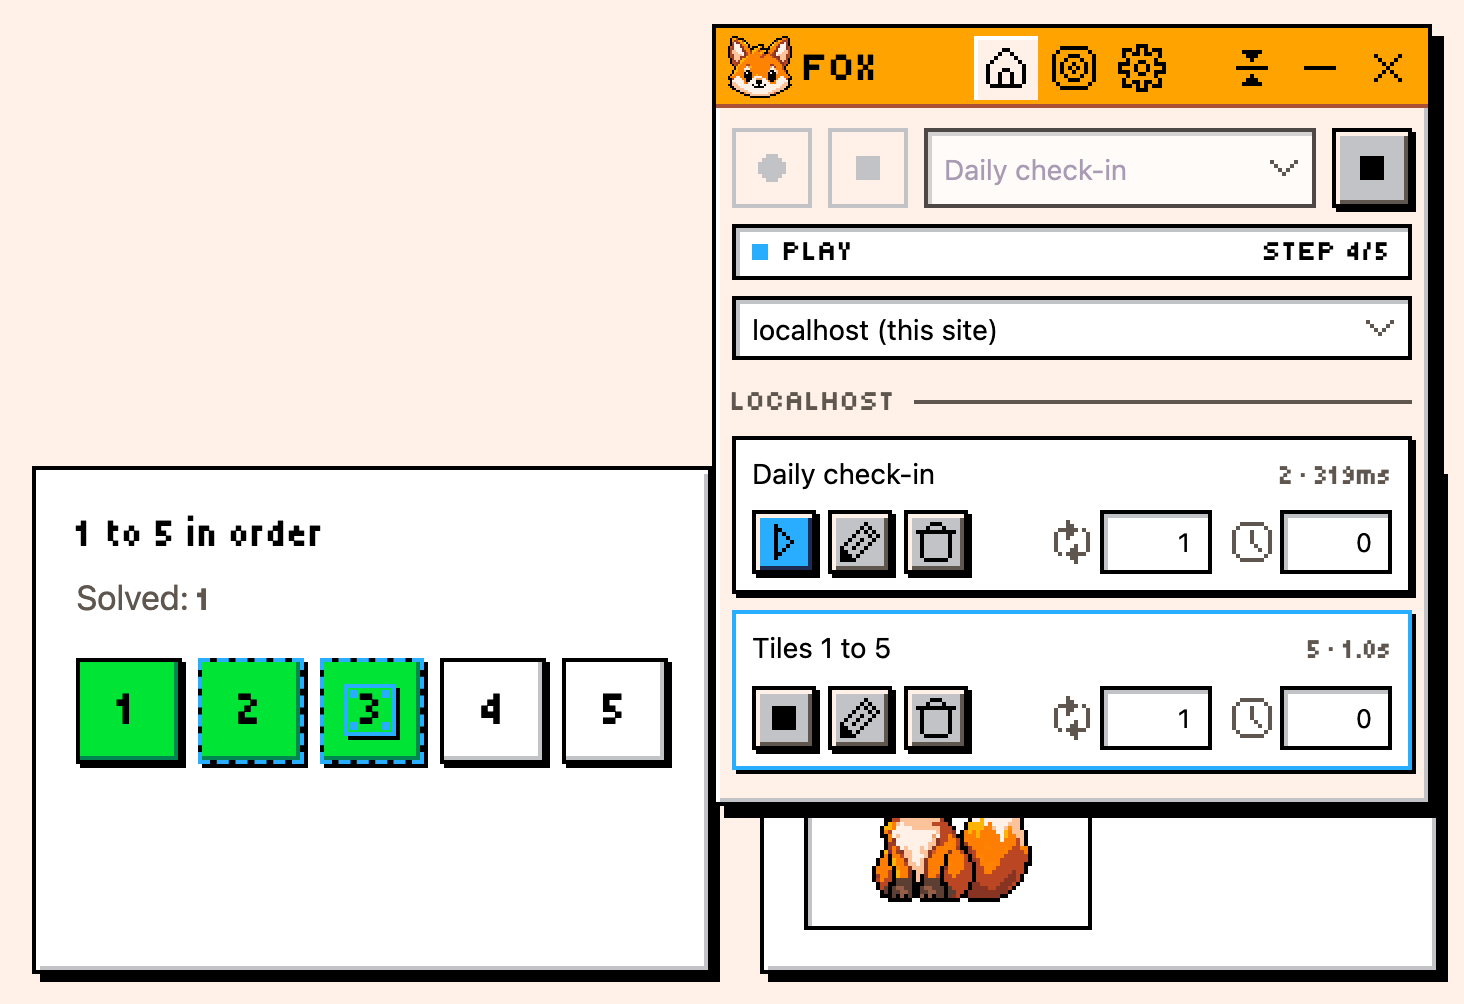
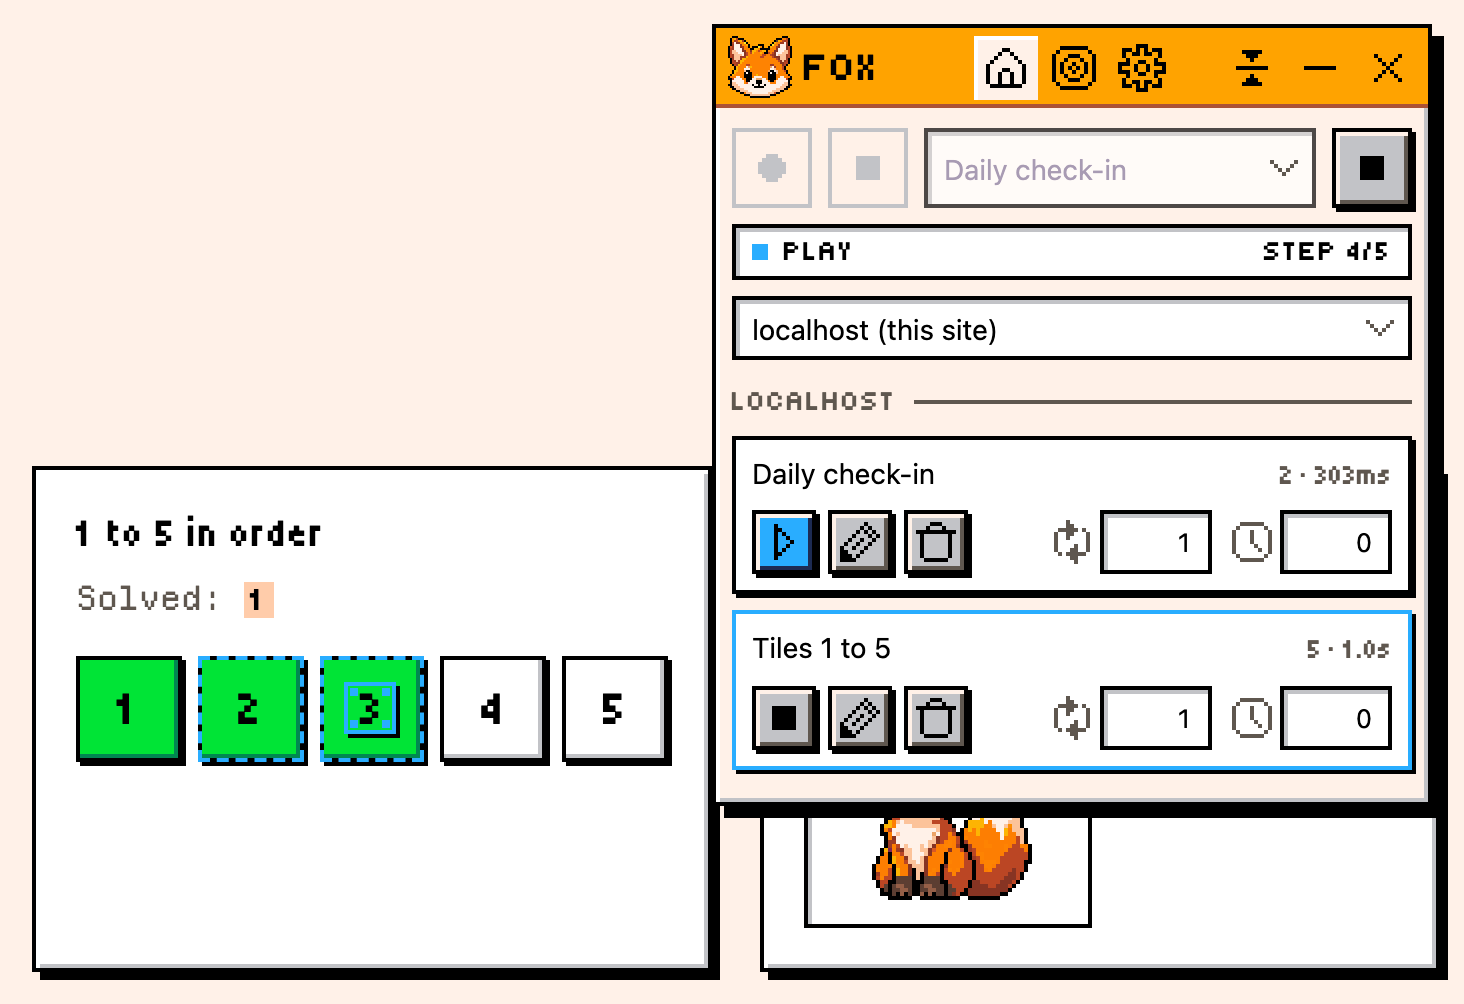
Website: Departure Mono body font (pixel-grid mono, OFL)
Pairs with the Tiny5 headings; site-only, the extension keeps the system font.
One weight, so <strong> is a peach highlight. Landing screenshot recaptured.

diff --git a/website/app/globals.css b/website/app/globals.css
@@ -2,6 +2,14 @@
    extension (generated/fox-shared.css, see scripts/sync-design.mjs); this file only
    lays out pages with them, following DESIGN.md (§6 Website). */
 
+/* Site-only body font: Departure Mono (OFL, public/fonts/DepartureMono-LICENSE.txt).
+   Drawn on an 11px pixel grid, so sizes are multiples of 5.5px (16.5 = 1.5×11). */
+@font-face {
+  font-family: "DepartureMono";
+  src: url("/fonts/departure-mono.woff2") format("woff2");
+  font-display: swap;
+}
+
 @font-face {
   font-family: "FoxPixel";
   src: url("/assets/fonts/tiny5.woff2") format("woff2");
@@ -13,6 +21,7 @@
      hero band continues it seamlessly on wide screens) */
   --web-night: #122965;
   --web-max: 1120px;
+  --web-font-body: "DepartureMono", var(--fox-font-ui);
 }
 
 *, *::before, *::after { box-sizing: border-box; }
@@ -21,13 +30,16 @@ body {
   margin: 0;
   background: var(--fox-bg);
   color: var(--fox-text);
-  font: 17px/1.6 var(--fox-font-ui);
+  font: 16.5px/1.6 var(--web-font-body);
 }
 img { max-width: 100%; display: block; }
 a { color: var(--fox-link); text-underline-offset: 3px; }
+/* the body font has one weight: emphasis is a highlight, never a faux bold */
+strong, b { font-weight: normal; color: var(--px-black); background: var(--px-peach); padding: 0 3px; }
+.hero strong, .prose strong { background: none; padding: 0; }
 a:hover { color: var(--px-black); }
 :focus-visible { outline: 2px solid var(--px-orange); outline-offset: 2px; }
-code { font: 0.9em var(--fox-font-mono); background: var(--fox-surface); border: 2px solid var(--px-silver); padding: 0 4px; }
+code { font: inherit; background: var(--fox-surface); border: 2px solid var(--px-silver); padding: 0 4px; }
 
 h1, h2, h3, .pixel {
   font-family: var(--fox-font-pixel);
@@ -110,7 +122,7 @@ kbd {
   .nav-links .narrow { display: inline; }
 }
 
-.footer { border-top: 2px solid var(--px-black); padding: 24px 0; color: var(--fox-text-2); font-size: 15px; }
+.footer { border-top: 2px solid var(--px-black); padding: 24px 0; color: var(--fox-text-2); }
 .footer-inner { display: flex; flex-wrap: wrap; gap: 8px 24px; justify-content: space-between; align-items: center; }
 .footer-inner p { margin: 0; }
 .footer-links { display: flex; gap: 20px; flex-wrap: wrap; }
@@ -124,7 +136,7 @@ kbd {
   display: flex; flex-direction: column; justify-content: center; gap: 20px;
   padding: 24px 16px 24px max(16px, calc((100vw - var(--web-max)) / 2 + 16px));
 }
-.hero-copy p { margin: 0; font-size: 18px; max-width: 34ch; color: var(--px-cream); }
+.hero-copy p { margin: 0; max-width: 40ch; color: var(--px-cream); }
 .hero-copy .label { color: var(--px-peach); }
 .hero-actions { display: flex; flex-wrap: wrap; gap: 12px; }
 .hero .btn.is-disabled { color: var(--px-cream); border-color: var(--px-cream); background: transparent; }
@@ -161,7 +173,7 @@ kbd {
 @media (max-width: 800px) {
   .demo { grid-template-columns: 1fr; }
   .steps { grid-template-columns: repeat(3, minmax(0, 1fr)); gap: 8px; }
-  .steps li { flex-direction: column; align-items: start; gap: 4px; font-size: 15px; }
+  .steps li { flex-direction: column; align-items: start; gap: 4px; font-size: 13.75px; }
   .step-title { font-size: 20px; }
 }
 
@@ -182,7 +194,7 @@ kbd {
 
 /* ---------- Text pages (privacy, moved) ---------- */
 .page-head { padding: 56px 0 32px; display: grid; gap: 12px; }
-.page-head p { margin: 0; max-width: 60ch; color: var(--fox-text-2); font-size: 18px; }
+.page-head p { margin: 0; max-width: 60ch; color: var(--fox-text-2); }
 .prose { overflow-wrap: anywhere; max-width: 760px; padding: 32px; margin-bottom: 72px; }
 .prose h1 { display: none; } /* the page head already shows the title */
 .prose h2 { font-size: 24px; margin: 32px 0 8px; }

diff --git a/website/app/layout.tsx b/website/app/layout.tsx
@@ -24,6 +24,7 @@ export default function RootLayout({ children }: { children: React.ReactNode }) 
     <html lang="en">
       <head>
         <link rel="preload" href="/assets/fonts/tiny5.woff2" as="font" type="font/woff2" crossOrigin="" />
+        <link rel="preload" href="/fonts/departure-mono.woff2" as="font" type="font/woff2" crossOrigin="" />
       </head>
       <body>
         <Navbar />

diff --git a/website/components/chrome.tsx b/website/components/chrome.tsx
@@ -42,7 +42,7 @@ export function Footer() {
     <footer className="footer">
       <div className="container footer-inner">
         <p>
-          {APP_NAME} v{VERSION} · © {new Date().getFullYear()}
+          {APP_NAME} v{VERSION} · {new Date().getFullYear()}
         </p>
         <nav className="footer-links" aria-label="Footer">
           <Link href="/privacy/">Privacy</Link>

diff --git a/DESIGN.md b/DESIGN.md
@@ -285,6 +285,6 @@ Brand/mascot art (toolbar icon, mascot sprites, store promo art) is custom pixel
 | `manifest.json` | `website/generated/meta.json` | name, version, shortcut |
 | `assets/`, `icons/icon*.png` | `website/public/` | font, sprites, store art (same paths, so `url("/assets/…")` matches the extension's asset paths) |
 
-So a color, icon or sprite changed in the extension changes on the site at the next build. Site-only additions in `website/app/globals.css`: page layout, the `.raised` / `.inset` recipes from §2.3 as classes, buttons (§3 bevel colors), keycaps, and one non-palette color, `--web-night: #122965`, sampled from the marquee art so the landing hero band continues its sky. The same rules apply: hard edges, 2px pixel, Tiny5 for headings/labels/buttons (min 14px) and the system font for body text, motion ≤160ms in steps, off under reduced motion.
+So a color, icon or sprite changed in the extension changes on the site at the next build. Site-only additions in `website/app/globals.css`: page layout, the `.raised` / `.inset` recipes from §2.3 as classes, buttons (§3 bevel colors), keycaps, and one non-palette color, `--web-night: #122965`, sampled from the marquee art so the landing hero band continues its sky. The same rules apply: hard edges, 2px pixel, Tiny5 for headings/labels/buttons (min 14px), motion ≤160ms in steps, off under reduced motion. One deliberate difference: site body text uses **Departure Mono** (OFL, `website/public/fonts/`, site-only, 22 KB), a monospace drawn on an 11px pixel grid (sizes in multiples of 5.5px: 16.5px body), because the site's text is ours and English-only; the extension keeps the system font for page/user text (Thai). Departure Mono has one weight, so `<strong>` is a peach highlight, never a faux bold. 
 
 Pages (kept short: icons, keycaps, mascot states and real screenshots instead of sentences, per the 2026-10-03 website review): `/` (marquee as the hero, a real panel screenshot beside the 3 steps, 4 one-line features, limits, link to /moved), `/playground/` (click targets with counters for trying and testing macros; also the backdrop for store screenshots), `/moved/` (migration guide for "Fox Auto Clicker" users; legacy 2.0.2 links here), `/privacy/` (renders `PRIVACY_POLICY.md` at build). The store link is `STORE_URL` in `website/components/site.ts`: while `null`, the playground is the primary button and "Coming soon" is a caption. Screenshots of the real panel (`assets/web/panel.png`, `import.png`) come from `website/scripts/capture.mjs` (run by hand after a visible panel change); `assets/web/moving.png` from `clean.py`.
